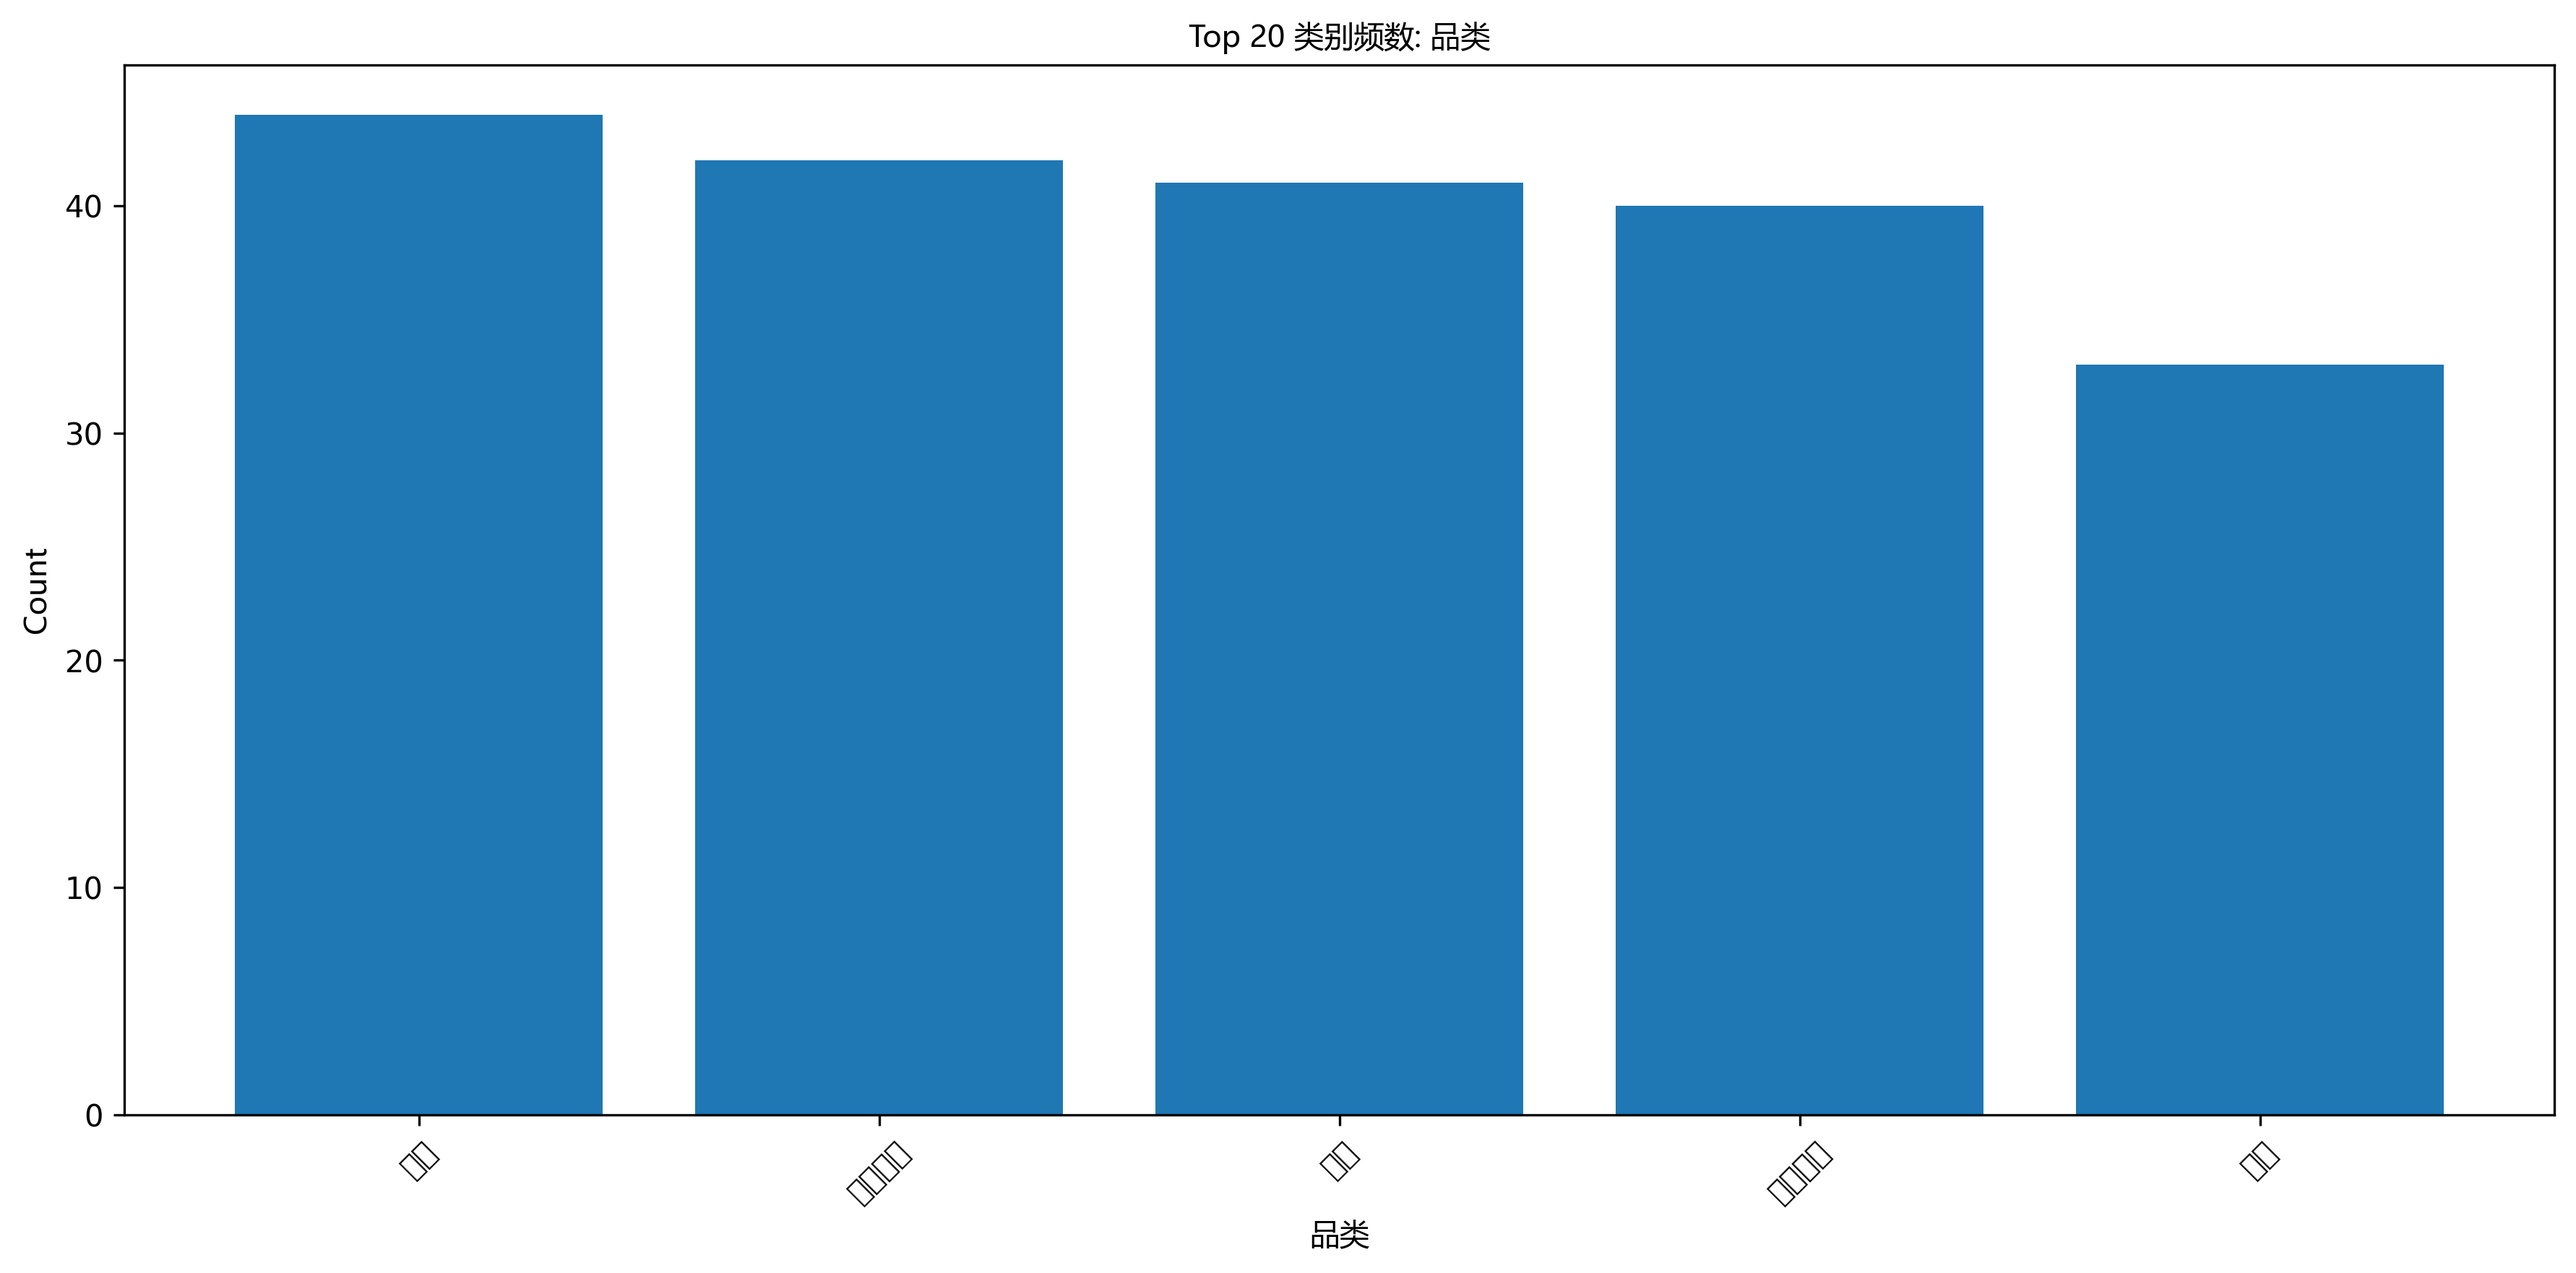
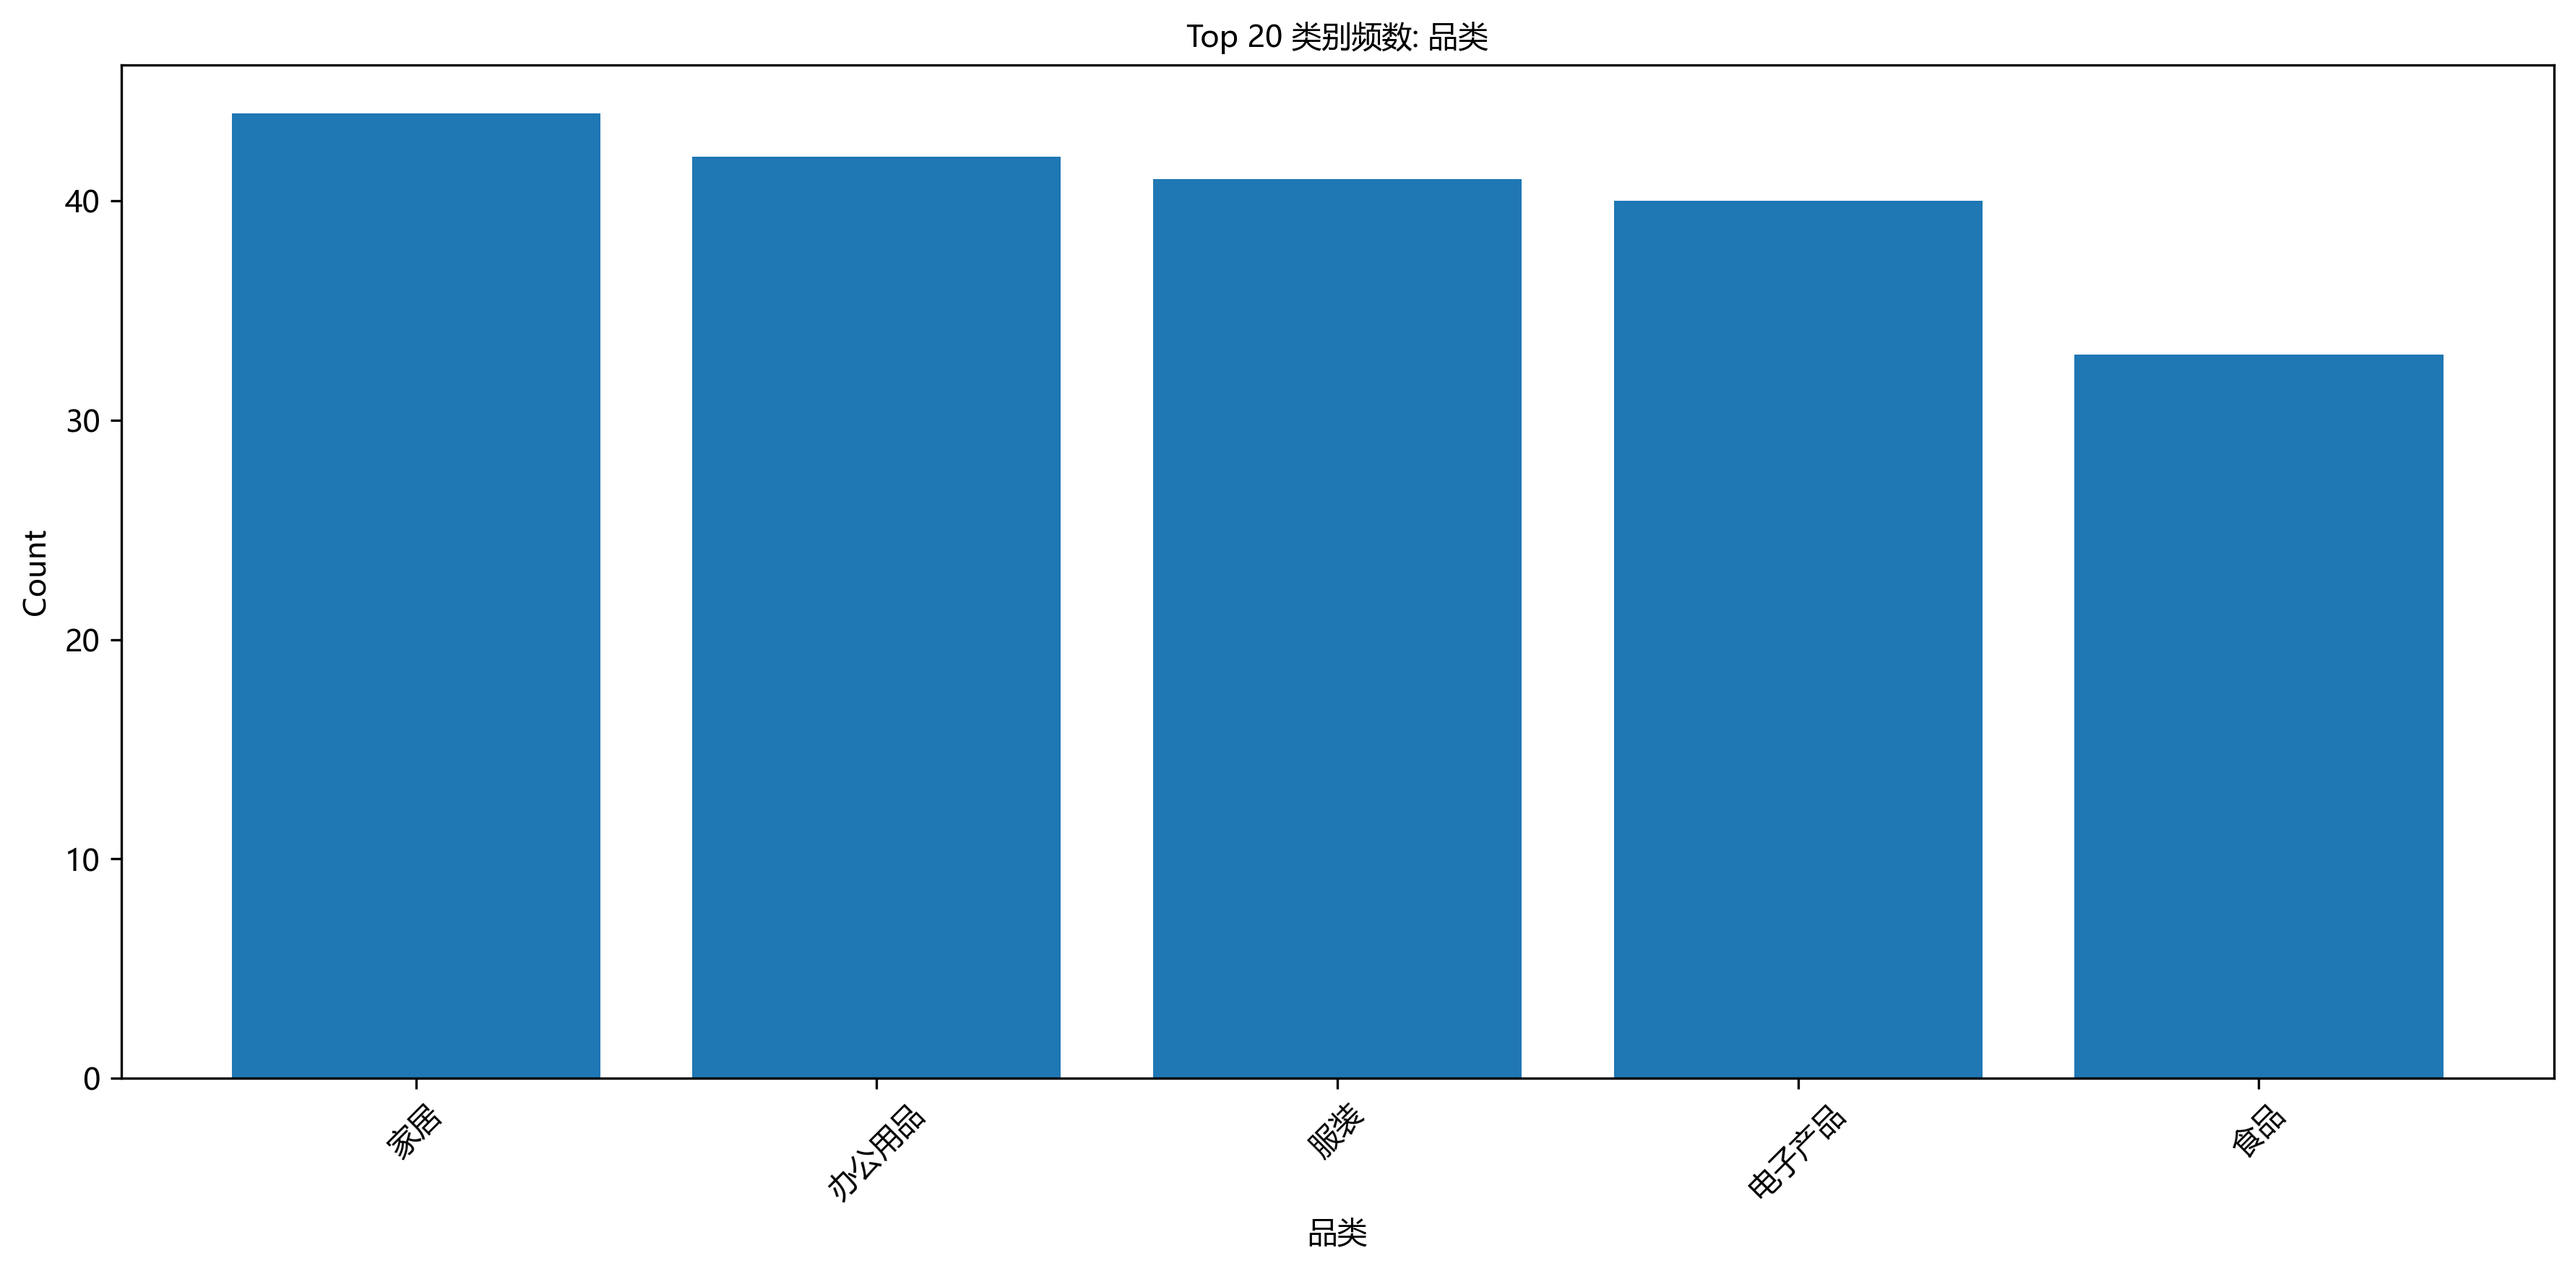
Fix Chinese font rendering on tick labels in all chart functions
Added fontproperties to tick labels in save_hist, save_bar_topk, and
save_line. Previously only titles and axis labels had Chinese font set,
causing x-axis category names to render as boxes. Regenerated example
output with correct Chinese rendering.

diff --git a/scripts/auto_eda.py b/scripts/auto_eda.py
@@ -75,6 +75,9 @@ def save_hist(df, col, outpath, font=None):
                  fontproperties=font)
     ax.set_xlabel(col, fontproperties=font)
     ax.set_ylabel("Count", fontproperties=font)
+    if font:
+        for label in ax.get_xticklabels() + ax.get_yticklabels():
+            label.set_fontproperties(font)
     fig.tight_layout()
     fig.savefig(outpath, dpi=300, bbox_inches="tight")
 
@@ -89,6 +92,9 @@ def save_bar_topk(df, col, outpath, k=20, font=None):
     ax.set_xlabel(col, fontproperties=font)
     ax.set_ylabel("Count", fontproperties=font)
     ax.tick_params(axis="x", rotation=45)
+    if font:
+        for label in ax.get_xticklabels() + ax.get_yticklabels():
+            label.set_fontproperties(font)
     fig.tight_layout()
     fig.savefig(outpath, dpi=300, bbox_inches="tight")
 
@@ -105,6 +111,9 @@ def save_line(df, time_col, y_col, outpath, font=None):
     ax.set_xlabel(time_col, fontproperties=font)
     ax.set_ylabel(y_col, fontproperties=font)
     ax.tick_params(axis="x", rotation=45)
+    if font:
+        for label in ax.get_xticklabels() + ax.get_yticklabels():
+            label.set_fontproperties(font)
     fig.tight_layout()
     fig.savefig(outpath, dpi=300, bbox_inches="tight")
 
